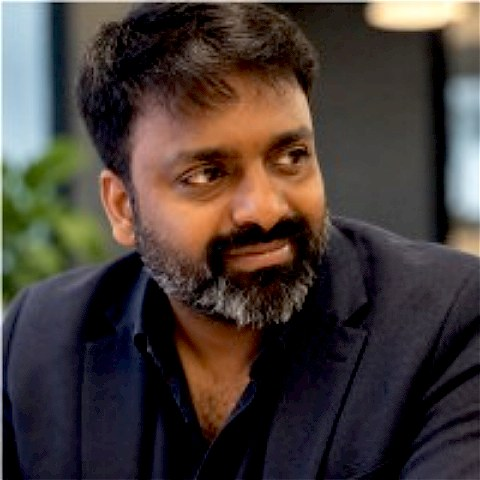
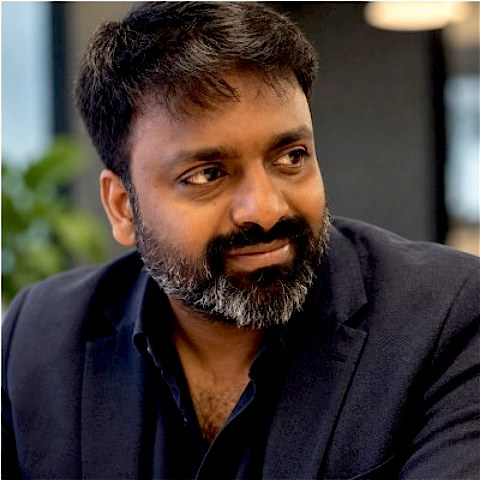
Site: sharper photo of R Abhilash

diff --git a/docs/index.html b/docs/index.html
@@ -156,7 +156,7 @@
           <p class="guest__more">Alumnus, Sainik School Kazhakootam (1371/83)</p></div>
         </li>
         <li class="guest reveal">
-          <img src="img/guests/abhilash.jpg?v=2" alt="R Abhilash" width="480" height="480" loading="lazy">
+          <img src="img/guests/abhilash.jpg?v=3" alt="R Abhilash" width="480" height="480" loading="lazy">
           <div><p class="guest__role">Distinguished Panellist</p><h3>R Abhilash</h3>
           <p>Founder, Bloombloom and FEST – The School of Innovators</p>
           <p class="guest__more">Co-founder of e-Toilet and SheTaxi</p></div>

diff --git a/docs/v1/index.html b/docs/v1/index.html
@@ -156,7 +156,7 @@
           <p class="guest__more">Alumnus, Sainik School Kazhakootam (1371/83)</p></div>
         </li>
         <li class="guest reveal">
-          <img src="img/guests/abhilash.jpg?v=2" alt="R Abhilash" width="480" height="480" loading="lazy">
+          <img src="img/guests/abhilash.jpg?v=3" alt="R Abhilash" width="480" height="480" loading="lazy">
           <div><p class="guest__role">Distinguished Panellist</p><h3>R Abhilash</h3>
           <p>Founder, Bloombloom and FEST – The School of Innovators</p>
           <p class="guest__more">Co-founder of e-Toilet and SheTaxi</p></div>
